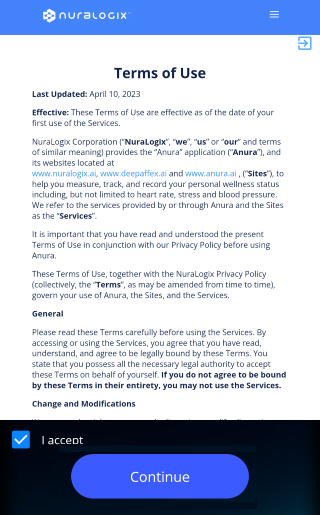
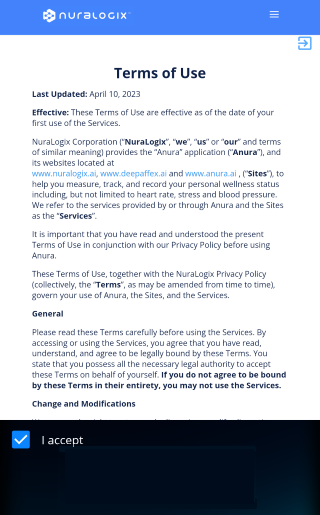
Updates to buttons and headers

Changed region(s): [[0.2188, 0.8699, 0.7812, 0.9942]]

diff --git a/MMA-customization/index.html b/MMA-customization/index.html
@@ -1,4 +1,3 @@
-<!-- filepath: c:\Users\VineetPuri\Documents\MMA customization project\index.html -->
 <!DOCTYPE html>
 <html lang="en">
 <head>
@@ -23,7 +22,7 @@
       color: #fff;
     }
     .header-logo {
-      width: 60px;
+      width: auto;
       height: auto;
       margin-right: 1rem;
     }
@@ -51,7 +50,7 @@
       flex-wrap: wrap;
     }
 
-    /* By default, columns are hidden (display: none) unless toggled on */
+    /* By default hidden columns */
     .column-container {
       display: none;
       flex-direction: column;
@@ -66,7 +65,7 @@
       transition: transform 0.3s ease, opacity 0.3s ease;
       transform-origin: center center;
     }
-    /* Add the .show class to animate them open */
+
     .column-container.show {
       transform: scale(1);
       opacity: 1;
@@ -112,7 +111,21 @@
       pointer-events: none;
     }
 
-    /* Results Screen items... */
+    /* Wider Continue buttons */
+    .wide-button {
+      position: absolute;
+      bottom: 23px;
+      left: 50%;
+      transform: translateX(-50%);
+      color: #fff;
+      border: none;
+      padding: 0.5rem 2rem; 
+      border-radius: 15px;
+      pointer-events: none;
+      min-width: 120px; 
+    }
+
+
     .result-heading {
       position: absolute;
       width: 200px;
@@ -177,7 +190,6 @@
       }
     }
 
-    /* Contact Sales */
     .contact-sales-container {
       text-align: center;
       margin: 2rem 0;
@@ -198,7 +210,7 @@
 <body>
   <header class="main-header">
     <img src="mma-logo.png" alt="MMA Logo" class="header-logo" />
-    <h1>Anura® MagicMirror - Preview Tool</h1>
+    <h1>Preview Tool</h1>
   </header>
 
   <section class="intro-section">
@@ -229,6 +241,11 @@
         </label>
         <br/><br/>
         <label>
+          <input type="checkbox" id="useSameButtonColorToggle" />
+          Use same color for all buttons (except Cancel button)
+        </label>
+        <br/><br/>
+        <label>
           <input type="checkbox" id="showLegalScreenToggle" />
           Add Legal Screen
         </label>
@@ -255,7 +272,7 @@
       </div>
       <div>
         <h3>Measurement Screen Preview</h3>
-        <label>Button Color:
+        <label class="other-screen-button-color">Cancel Button Color:
           <input type="color" id="measureBtnColor" value="#FE054F"/>
         </label>
       </div>
@@ -295,7 +312,7 @@
           <input type="checkbox" id="hideShareToggle"/>
         </label>
         <br/><br/>
-        <label>All Buttons Color:
+        <label class="other-screen-button-color">All Buttons Color:
           <input type="color" id="resultsBtnColor" value="#3B5AFF"/>
         </label>
       </div>
@@ -306,8 +323,17 @@
       <h2>Legal Screen</h2>
       <div class="mma-wrapper">
         <div id="legalScreen" class="screen-container" style="background-image: url('legal.png');">
+          <button id="legalButton" class="wide-button" style="background-color: #3B5AFF; z-index: 3;">
+            Continue
+          </button>
         </div>
         <img class="mma-frame" src="MMA.png" alt="MMA Frame" />
+      </div>
+      <div>
+        <h3>Legal Screen Preview</h3>
+        <label class="other-screen-button-color">Continue Button Color:
+          <input type="color" id="legalBtnColor" value="#3B5AFF"/>
+        </label>
       </div>
     </div>
 
@@ -316,13 +342,21 @@
       <h2>ID Entry Screen</h2>
       <div class="mma-wrapper">
         <div id="partnerIDScreen" class="screen-container" style="background-image: url('NuraLogix-Default.png');">
-            <!-- This overlay sits on top of the shared background -->
             <img src="partner_ID.png" style="position: absolute; top: 0; left: 0;" />
         </div>
+        <button id="partnerIDButton" class="wide-button" style="background-color: #3B5AFF; bottom: 315px; z-index: 3;">
+          Continue
+        </button>
         <img class="mma-frame" src="MMA.png" alt="MMA Frame" />
       </div>  
+      <div>
+        <h3>ID Entry Screen Preview</h3>
+        <label class="other-screen-button-color">Continue Button Color:
+          <input type="color" id="partnerIDBtnColor" value="#3B5AFF"/>
+        </label>
+      </div>
     </div>
-  </div> <!-- end of .screens-container -->
+  </div> 
 
   <div class="contact-sales-container">
     <a class="contact-sales-btn" href="https://nuralogix.ai/get-in-touch/" target="_blank">
@@ -331,7 +365,7 @@
   </div>
 
   <script>
-    // Utility to show (flex) or hide (none) a column container while using the .show class for animations
+  
     function showColumn(col) {
       col.style.display = "flex"; // Put it in the layout
       requestAnimationFrame(() => {
@@ -361,13 +395,66 @@
     const legalScreenContainer = document.getElementById("legalScreenContainer");
     const partnerIDScreenContainer = document.getElementById("partnerIDScreenContainer");
 
-    // Show them by default
+    // All button references
+    const homeButton = document.getElementById("homeButton");
+    const homeBtnColor = document.getElementById("homeBtnColor");
+    const useSameButtonColorToggle = document.getElementById("useSameButtonColorToggle");
+    const measureButton = document.getElementById("measureButton");
+    const measureBtnColor = document.getElementById("measureBtnColor");
+    const exitBtn = document.getElementById("exitBtn");
+    const retryBtn = document.getElementById("retryBtn");
+    const shareBtn = document.getElementById("shareBtn");
+    const resultsBtnColor = document.getElementById("resultsBtnColor");
+    const legalButton = document.getElementById("legalButton");
+    const legalBtnColor = document.getElementById("legalBtnColor");
+    const partnerIDButton = document.getElementById("partnerIDButton");
+    const partnerIDBtnColor = document.getElementById("partnerIDBtnColor");
+
+    // Screen references
+    const homeScreen = document.getElementById("homeScreen");
+    const measurementScreen = document.getElementById("measurementScreen");
+    const resultsScreen = document.getElementById("resultsScreen");
+    const partnerIDScreen = document.getElementById("partnerIDScreen");
+
+    // File inputs
+    const homeBgInput = document.getElementById("homeBgInput");
+    const resultsBgInput = document.getElementById("resultsBgInput");
+
+    // Results screen elements
+    const resultHeadingImg = document.getElementById("resultHeadingImg");
+    const resultListViewImg = document.getElementById("resultListViewImg");
+    const resultWebViewImg = document.getElementById("resultWebViewImg");
+    const resultsButtons = document.getElementById("resultsButtons");
+    const resultViewMode = document.getElementById("resultViewMode");
+    const hideShareToggle = document.getElementById("hideShareToggle");
+
+    // Show default columns
     showColumn(homeScreenContainer);
     showColumn(measurementScreenContainer);
     showColumn(resultsScreenContainer);
-    // Hide these two by default
     hideColumn(legalScreenContainer);
     hideColumn(partnerIDScreenContainer);
+
+    // Function to apply the same button color to all other screens (EXCLUDING measurement screen)
+    function applySameButtonColorToAll(color) {
+      exitBtn.style.backgroundColor = color;
+      retryBtn.style.backgroundColor = color;
+      shareBtn.style.backgroundColor = color;
+      // Add new buttons
+      if (legalButton) legalButton.style.backgroundColor = color;
+      if (partnerIDButton) partnerIDButton.style.backgroundColor = color;
+    }
+
+    // Helper to set background from file input
+    function setBackgroundImage(input, screenElement) {
+      if (input.files && input.files[0]) {
+        const reader = new FileReader();
+        reader.addEventListener("load", () => {
+          screenElement.style.backgroundImage = `url('${reader.result}')`;
+        });
+        reader.readAsDataURL(input.files[0]);
+      }
+    }
 
     // Toggle checkboxes
     const showLegalScreenToggle = document.getElementById("showLegalScreenToggle");
@@ -388,37 +475,49 @@
       }
     });
 
-    // Home Screen
-    const homeScreen = document.getElementById("homeScreen");
-    const homeBgInput = document.getElementById("homeBgInput");
+    // Home Screen background
     homeBgInput.addEventListener("change", () => {
       setBackgroundImage(homeBgInput, homeScreen);
     });
-    const homeButton = document.getElementById("homeButton");
-    const homeBtnColor = document.getElementById("homeBtnColor");
+
+    // Home Screen button color
     homeBtnColor.addEventListener("input", () => {
       homeButton.style.backgroundColor = homeBtnColor.value;
+      if (useSameButtonColorToggle.checked) {
+        applySameButtonColorToAll(homeBtnColor.value);
+      }
     });
 
-    // Measurement
-    const measurementScreen = document.getElementById("measurementScreen");
-    const measureBtnColor = document.getElementById("measureBtnColor");
+    // Universal button color toggle
+    useSameButtonColorToggle.addEventListener("change", () => {
+      if (useSameButtonColorToggle.checked) {
+        // Apply the current Home Screen button color to all other buttons (excluding measurement)
+        applySameButtonColorToAll(homeBtnColor.value);
+        // Hide button color options for other screens (excluding measurement)
+        document.querySelectorAll(".other-screen-button-color").forEach(el => {
+          if (el.querySelector('#measureBtnColor')) {
+            return;
+          }
+          el.style.display = "none";
+        });
+      } else {
+        // Show button color options for other screens
+        document.querySelectorAll(".other-screen-button-color").forEach(el => el.style.display = "block");
+      }
+    });
+
+
     measureBtnColor.addEventListener("input", () => {
-      document.getElementById("measureButton").style.backgroundColor = measureBtnColor.value;
+      measureButton.style.backgroundColor = measureBtnColor.value;
     });
 
-    // Results
-    const resultsScreen = document.getElementById("resultsScreen");
-    const resultsBgInput = document.getElementById("resultsBgInput");
+
     resultsBgInput.addEventListener("change", () => {
       setBackgroundImage(resultsBgInput, resultsScreen);
+      setBackgroundImage(resultsBgInput, partnerIDScreen);
     });
-    const resultHeadingImg = document.getElementById("resultHeadingImg");
-    const resultListViewImg = document.getElementById("resultListViewImg");
-    const resultWebViewImg = document.getElementById("resultWebViewImg");
-    const resultsButtons = document.getElementById("resultsButtons");
-    const resultViewMode = document.getElementById("resultViewMode");
 
+    // Results view mode
     resultViewMode.addEventListener("change", () => {
       const mode = resultViewMode.value;
       if (mode === "list") {
@@ -432,7 +531,6 @@
         resultsButtons.style.display = "none";
         resultWebViewImg.style.display = "block";
       } else {
-        // 'None' means hide major elements
         resultListViewImg.style.display = "none";
         resultWebViewImg.style.display = "none";
         resultHeadingImg.style.display = "block";
@@ -441,37 +539,30 @@
     });
 
     // Hide share button
-    const shareBtn = document.getElementById("shareBtn");
-    const hideShareToggle = document.getElementById("hideShareToggle");
     hideShareToggle.addEventListener("change", () => {
       shareBtn.style.display = hideShareToggle.checked ? "none" : "inline-block";
     });
 
     // Results buttons color
-    const resultsBtnColor = document.getElementById("resultsBtnColor");
     const resultsBtns = document.querySelectorAll("#resultsButtons button");
     resultsBtnColor.addEventListener("input", () => {
-      resultsBtns.forEach(btn => btn.style.backgroundColor = resultsBtnColor.value);
+      if (!useSameButtonColorToggle.checked) {
+        resultsBtns.forEach(btn => btn.style.backgroundColor = resultsBtnColor.value);
+      }
     });
 
-    // Helper to set background from file input
-    function setBackgroundImage(input, screenElement) {
-      if (input.files && input.files[0]) {
-        const reader = new FileReader();
-        reader.addEventListener("load", () => {
-          screenElement.style.backgroundImage = `url('${reader.result}')`;
-        });
-        reader.readAsDataURL(input.files[0]);
+
+    legalBtnColor.addEventListener("input", () => {
+      if (!useSameButtonColorToggle.checked) {
+        legalButton.style.backgroundColor = legalBtnColor.value;
       }
-    }
+    });
 
-    // Hook into the same resultsBgInput change event
-    const partnerIDScreen = document.getElementById("partnerIDScreen");
 
-    resultsBgInput.addEventListener("change", () => {
-      // Update both the Results Screen and the Partner ID Screen at once
-      setBackgroundImage(resultsBgInput, resultsScreen);
-      setBackgroundImage(resultsBgInput, partnerIDScreen);
+    partnerIDBtnColor.addEventListener("input", () => {
+      if (!useSameButtonColorToggle.checked) {
+        partnerIDButton.style.backgroundColor = partnerIDBtnColor.value;
+      }
     });
 
     // Initialize default states on page load
@@ -481,6 +572,9 @@
       resultListViewImg.style.display = "block";
       resultsButtons.style.display = "flex";
       resultWebViewImg.style.display = "none";
+      if (!useSameButtonColorToggle.checked) {
+        document.querySelectorAll(".other-screen-button-color").forEach(el => el.style.display = "block");
+      }
     });
   </script>
 </body>
